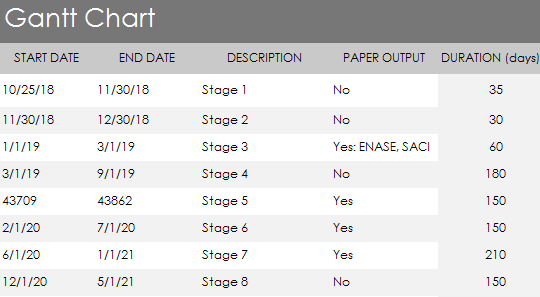
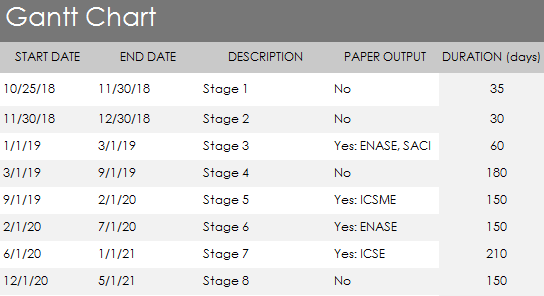
update gantt

diff --git a/proposal/DocMain.tex b/proposal/DocMain.tex
@@ -94,12 +94,15 @@ Also, logical dependency can be also a structural dependency and vice-versa, so 
 
 The research will be made by following the next stages of implementation:
 
+
+\textbf{A.} DEVELOPMENT OF CONTENT AND TOOLS
+
 \textbf{Stage 1:} Build tool to extract structural dependencies from code and co-changes from git for a given set of projects.
 
 \textbf{Stage 2:} Find filters for the co-changes extracted, the filters can be the ones already mentioned in previous works or new ones. Establish different thresholds for those filters.
 
 \textbf{Stage 3:} Study the impact of those filters and the coresponding thresholds on the remaining quantity of co-changes for each system.
-Study the overlappings between the remaining pairs of co-changing entites and the structural dependencies extracted.
+Study the overlappings between the remaining pairs of co-changing entites and the structural dependencies extracted. \cite{enase19}
 
 \textbf{Stage 4:} Establish a dynamic way to determine the thresholds for filters in order to fit the best each studied sistem. Main focus on the threshold for number of occurences of co-changing pairs.
 Use plots or other visual instruments in order to see the highests and the lowest rates for the numbers of occurrences among co-changing pairs.
@@ -108,6 +111,8 @@ Also filter those rates into normal and abnormal ones and study what was the cau
 \textbf{Stage 5:} Take into account also structural dependencies from all the revisions of the system to filter out the old, out-of-date logical dependencies. 
 Study how this affects the remaining number of logical dependencies.Here an extra check is needed, it can be a case in which old structural dependencies that were also logically linked to continue to be logically linked
 even after the structural dependency was removed.
+
+\textbf{B.} USAGE
 
 \textbf{Stage 6:} Export the remaining co-changes whom at this step we can call logical dependencies and use them among structural dependencies in tools for architectural reconstruction to evaluate the improvement.
 
